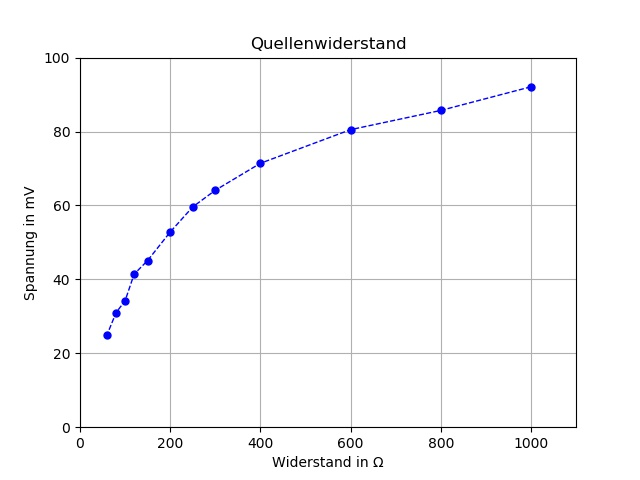
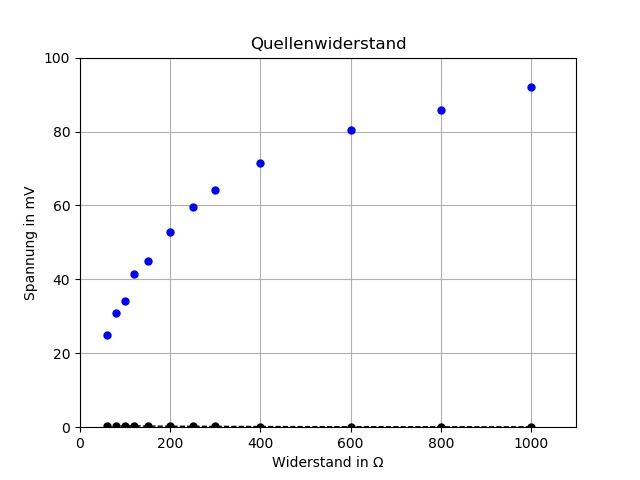
2.4_Fertig gezeichnet

diff --git a/Numerische_Mathematik/Pyhton-Projects/2,4_Quellenwiderstand.py b/Numerische_Mathematik/Pyhton-Projects/2,4_Quellenwiderstand.py
@@ -6,12 +6,78 @@ from matplotlib import pyplot as plt
 
 Widerstand = (1000, 800, 600, 400, 300, 250, 200, 150, 120, 100, 80, 60)
 Spannung = (92.1, 85.7, 80.5, 71.4, 64.1, 59.6, 52.8, 45.1, 41.4, 34.2, 31, 25)
-plt.xlim(0, 1100)
-plt.ylim(0, 100)
-plt.title('Quellenwiderstand')
-plt.ylabel('Spannung in mV')
-plt.xlabel('Widerstand in Ω')
+Strom = tuple(np.divide( Spannung, Widerstand))
+Leistung = tuple(np.multiply( Spannung, Spannung))
+Leistung = tuple(np.divide( Leistung, Widerstand))
+print(Strom)
+print(Leistung)
+
 plt.grid(1)
-plt.plot(Widerstand, Spannung, 'o',markersize = 5,  color = 'blue', linestyle = 'dashed', linewidth = 1 ) 
-plt.savefig('Quellenwiderstand.jpg')
-plt. show()
+
+# Darstellung vom Strom 
+
+# plt.title('Quellenwiderstand')
+# plt.ylabel('Spannung in mV')
+# plt.xlabel('Widerstand in Ω')
+# plt.xlim(0, 1100)
+# plt.ylim(0, 100
+# plt.plot(Widerstand, Spannung, 'o',markersize = 5,  color = 'blue', linestyle = 'dashed', linewidth = 0 ) 
+# plt.savefig('Quellenwiderstand.jpg')
+# plt. show()
+
+
+
+
+
+# Linearisierung
+
+element = 0
+matrix = [[0,0],[0,len(Spannung)]]
+result = [0,0]
+while element  < len(Spannung):
+    matirxtmp = [[Spannung[element]**2, Spannung[element]], [Spannung[element], 0]]
+    matrix = np.add(matrix, matirxtmp)
+    tmp_result = [Spannung[element]*Strom[element], Strom[element]]
+    result = np.add(result, tmp_result)
+    element = element+1
+det = matrix[0][0]*matrix[1][1]-matrix[0][1]*matrix[1][0]
+det_a = result[0]*matrix[1][1]-result[1]*matrix[0][1]
+det_b = result[1]*matrix[0][0] - matrix[1][0]*result[0]
+a = det_a/det
+b = det_b/det
+x = np.arange(24, 93, 1)
+# print("Median ascent:{:0.2f} + {:0.2f} x ".format(a,b))
+# print("Median ascent: y = ",a, "*x+",b )
+# plt.title("Median ascent:{:0.2f} + {:0.2f} x ".format(a,b))
+
+y_gerade = a*x+b
+# plt.plot(x,y_gerade)
+# plt.ylabel("Strom")
+# plt.xlabel('Spannung')
+plt.grid(1)
+plt.axes = True
+# plt.show()
+
+
+plt.title('I/U - Diagramm')
+plt.xlim(0, 100)
+plt.ylim(0, 0.5)
+plt.xlabel('Spannung in mV')
+plt.ylabel('Stromstärke in mA')
+
+plt.plot(x, y_gerade, markersize = 3, color = 'red', linestyle = 'dashed', linewidth = 1 ) 
+
+plt.plot(Spannung, Strom, 'o',markersize = 6,  color = 'black', linestyle = 'dashed', linewidth = 0 ) 
+plt.savefig('U-I-Diagramm.jpg')
+plt.show()
+
+
+# plt.xlim(0, 1100)
+# plt.ylim(0, 15)
+# plt.title('P/R - Kennlinie')
+# plt.xlabel('Widerstand in Ω')
+# plt.ylabel('Leistung in W')
+# plt.plot(Widerstand, Leistung, 'o',markersize = 5,  color = 'blue', linestyle = 'dashed', linewidth = 0 ) 
+# plt.savefig('Leistung.jpg')
+# plt.show()
+
